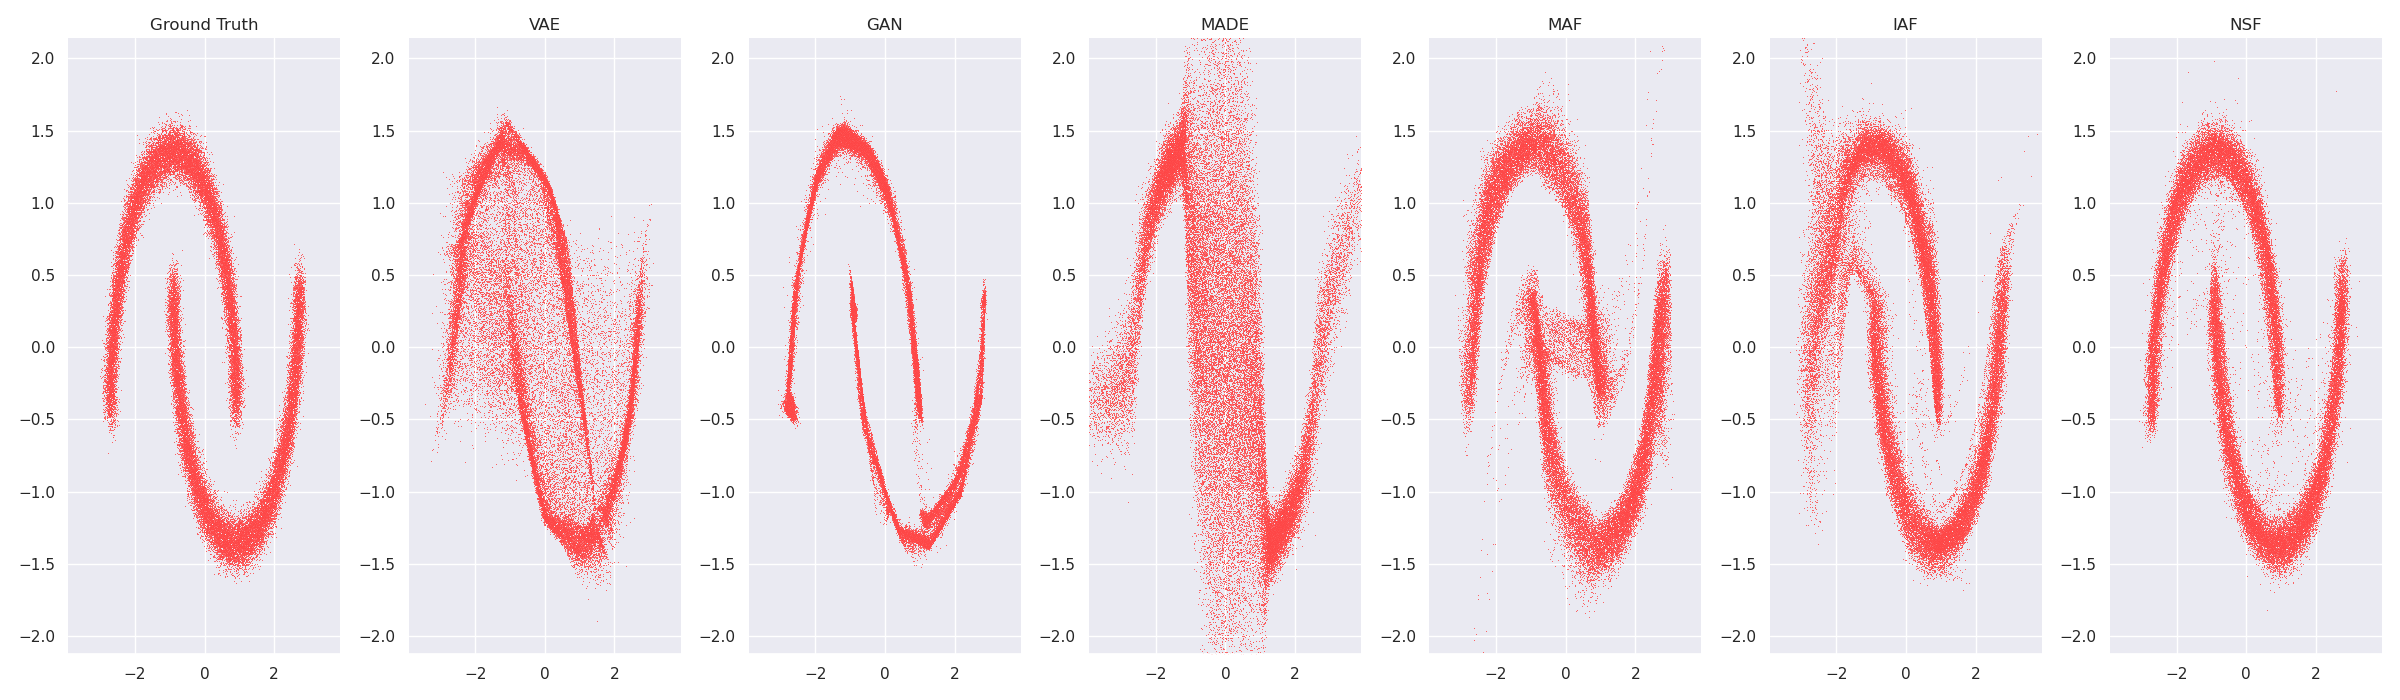
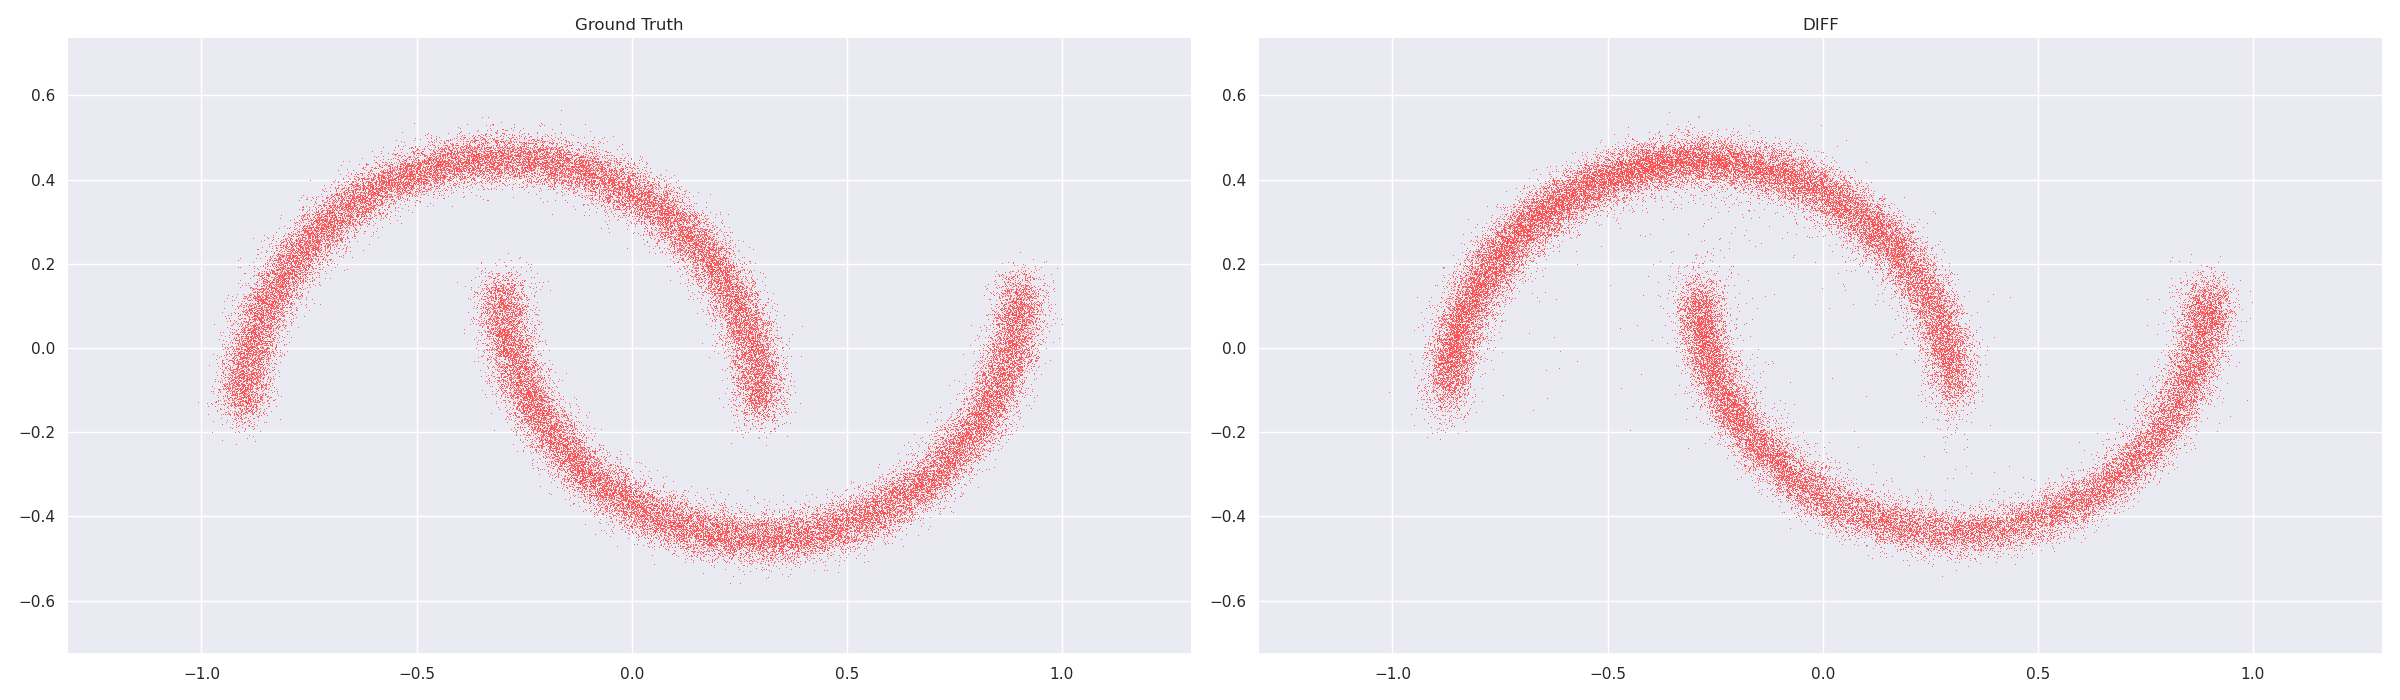
Setting working well for moons diffusion

diff --git a/models/diffusion_model.py b/models/diffusion_model.py
@@ -1,5 +1,6 @@
 import torch
 import torch.nn as nn
+import torch.nn.functional as F
 import numpy as np
 
 from torchvision.datasets import FakeData
@@ -20,8 +21,16 @@ def forward_diffusion(x_0, alpha_bar, timesteps):
 
 def create_alphas(T):
     """ Create alpha schedule """
-    betas = torch.linspace(0., np.pi/5., T)
-    alpha = torch.abs(torch.cos(betas)) # cosine schedule
+    #betas = torch.linspace(0., np.pi/5., T)
+    #alpha = torch.abs(torch.cos(betas)) # cosine schedule
+
+    #betas = torch.linspace(0., np.pi/6.8, T)
+    #alpha = torch.abs(torch.cos(betas)) # cosine schedule
+
+
+    beta = .3*torch.linspace(0., 0.85, T)**3
+    alpha = 1 - beta
+
     #beta = torch.linspace(10e-4, 0.02, T) # Ho et al. 2020
     #beta = torch.linspace(0., 0.2, T) # Ho et al. 2020
     #alpha = 1. - beta
@@ -49,6 +58,12 @@ class DiffusionModel(nn.Module):
         self.alpha = create_alphas(T).to(device)
         self.alpha_bar = torch.cumprod(self.alpha, dim=0).to(device)
 
+        # plt.plot(self.alpha.cpu(), color='green')
+        # plt.plot(self.alpha_bar.cpu(), color='blue')
+        # plt.plot(1. - self.alpha_bar.cpu(), color='orange')
+        # plt.show()
+        # exit()
+
         # TODO: verify correctness
         self.sigma = (
             (1 - self.alpha)
@@ -58,23 +73,23 @@ class DiffusionModel(nn.Module):
 
         time_dim = 8
         self.time_net = nn.Sequential(
-            nn.Linear(1, 16),
-            nn.GELU(),
+            nn.Linear(self.T, 16),
+            nn.ELU(),
             nn.Linear(16, 8)
         )
         
         self.noise_net =  nn.Sequential(
-            nn.Linear(dim + time_dim, 16),
-            nn.GELU(),
-            nn.Linear(16, 32),
-            nn.GELU(),
-            nn.Linear(32, 64),
-            nn.GELU(),
-            nn.Linear(64, 128),
-            nn.GELU(),
-            nn.Linear(128, 256),
-            nn.GELU(),
-            nn.Linear(256, dim)
+            nn.Linear(dim + time_dim, 50),
+            nn.ELU(),
+            nn.Linear(50, 100),
+            nn.ELU(),
+            nn.Linear(100, 200),
+            nn.ELU(),
+            nn.Linear(200, 200),
+            nn.ELU(),
+            nn.Linear(200, 200),
+            nn.ELU(),
+            nn.Linear(200, dim)
         )
 
         self.device = device
@@ -90,10 +105,16 @@ class DiffusionModel(nn.Module):
 
     def forward(self, x_t, timesteps):
         """ Predict noise """
-        if len(timesteps.shape) == 1:
-            timesteps = timesteps.unsqueeze(1)
+        #if len(timesteps.shape) == 1:
+        #    timesteps = timesteps.unsqueeze(1)
 
-        t_emb = self.time_net(timesteps.float())
+        t_emb = F.one_hot(timesteps, self.T).float()
+        t_emb = self.time_net(t_emb)
+        # print(t_emb.shape)
+        #print(one_hot.shape)
+        # exit()
+
+        #t_emb = self.time_net(timesteps.float())
         x_t_time = torch.cat([x_t, t_emb], dim=1) # cat time embedding
         return self.noise_net(x_t_time)
 
@@ -118,7 +139,7 @@ class DiffusionModel(nn.Module):
 
 # Last major change:
 # Sampling from denoising distribution. Seems it is VERY important, otherwise it seems
-# net network just undoes all points noise and deterministically pushes them forward
+# net network just undoes all points' noise and deterministically pushes them forward
 # from the (0,0) center on the same deterministic route! This was explained badly in the
 # survey paper so far. Then I also had a left over bug where I basically kept the t fixed
 # in the denoising.

diff --git a/train.py b/train.py
@@ -37,14 +37,14 @@ from pycandle.training.model_trainer import ModelTrainer
 
 
 class Config:
-    lr = 0.0001 #0.001
-    epochs = 300
+    lr = 0.001
+    epochs = 30
     gan_epochs = 200
     batch_size = 64
     model_samples = 50000
     device = 0 # gpu
     dataset_type = DatasetType.FACE
-    dataset_size = 100000#50000
+    dataset_size = 50000
 
 
 def load_model(model, checkpoint_path):
@@ -176,6 +176,7 @@ def main():
     # train_model(target_dataset, nsf, losses.nll, checkpoint_path / "nsf_checkpoint.pt")
     # model_samples["NSF"] = nsf.sample(Config.model_samples)
 
+    Config.epochs = 300
     diffm = DiffusionModel(dim=2, T=100, device=Config.device)
     train_model(target_dataset, diffm, diffusion_loss, checkpoint_path / "diffm_checkpoint.pt")
     model_samples["DIFF"] = diffm.sample(Config.model_samples)
